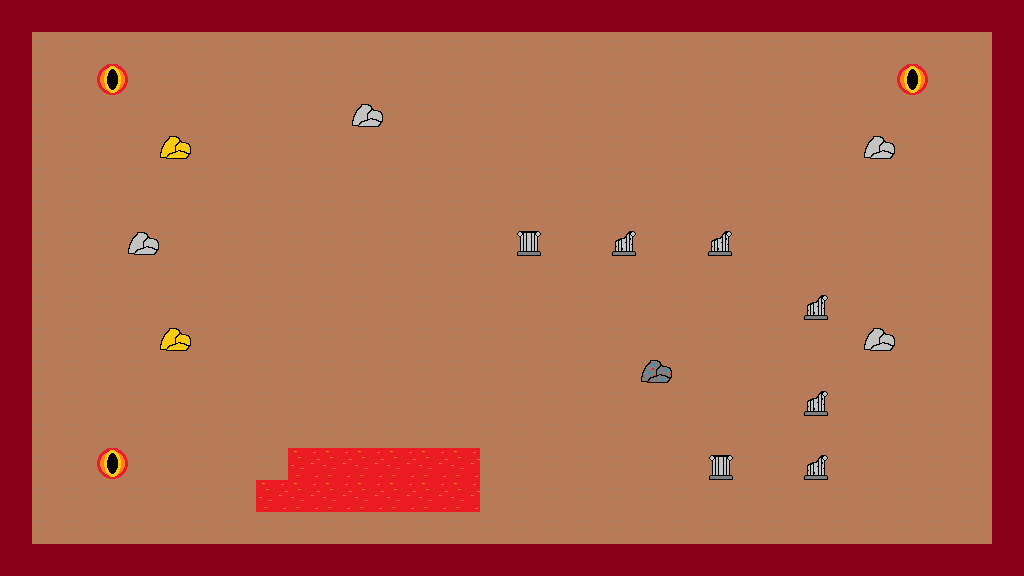
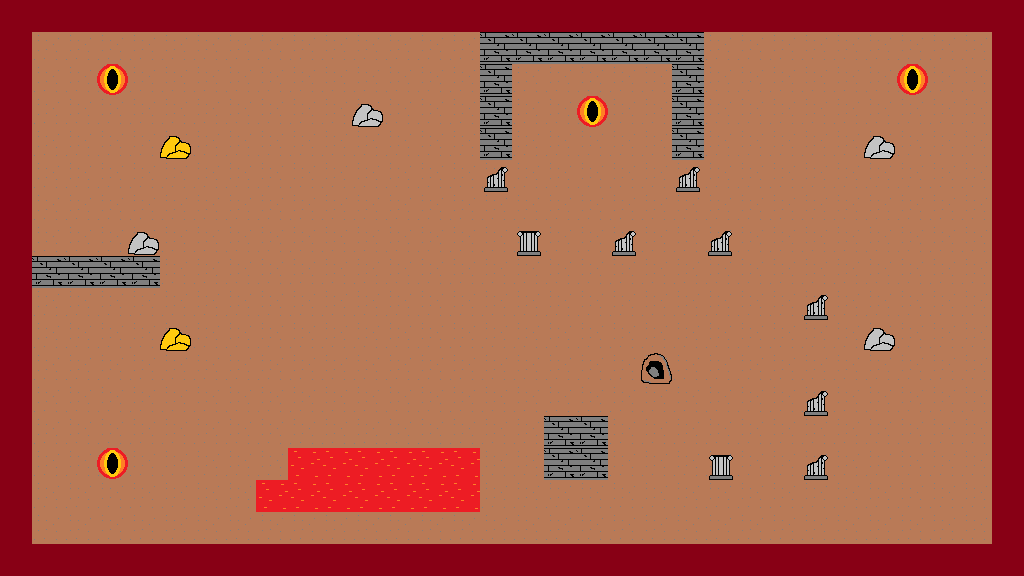
no message

diff --git a/MinioningClient/Visualization/src/main/java/minioning/visuals/Render.java b/MinioningClient/Visualization/src/main/java/minioning/visuals/Render.java
@@ -49,7 +49,7 @@ public class Render {
     private Texture backgroundTexture_2;
     private Texture backgroundTexture_3;
     private Texture backgroundTexture_4;
-  private Texture backgroundTexture_5;
+    private Texture backgroundTexture_5;
     // Entities
     private Texture playerTexture;
     private Texture enemyTexture;
@@ -84,11 +84,10 @@ public class Render {
     private ImageButton button;
 
     // Menu Sprites
-    Sprite player;
-    Sprite enemy;
-    Sprite otherP;
-
-
+    private Sprite player;
+    private Sprite enemy;
+    private Sprite otherP;
+    private Sprite minion;
 
     // Time values
     private float elapsed = 0;
@@ -203,7 +202,7 @@ public class Render {
             otherPlayerTexture = new Texture(Gdx.files.local(RESOURCE_ROOT + "graphics/" + "green.png"));
             minionTexture = new Texture(Gdx.files.local(RESOURCE_ROOT + "graphics/" + "minion.png"));
             errorTexture = new Texture(Gdx.files.local(RESOURCE_ROOT + "graphics/" + "error.png"));
-            
+
             try {
                 buttonTexture = new Texture(Gdx.files.local(RESOURCE_ROOT + "graphics/" + "button1.png"));
 
@@ -242,6 +241,7 @@ public class Render {
             setMenuIcon(batch, 125, 400, player, "PLAYER: ");
             setMenuIcon(batch, 125, 350, enemy, "ENEMY: ");
             setMenuIcon(batch, 125, 300, otherP, "ALLIES: ");
+            setMenuIcon(batch, 125, 250, minion, "MINION: ");
 
 //            ss = setMenuIcon(batch, 50, 200, player, RESOURCE_ROOT);
 //
@@ -264,7 +264,7 @@ public class Render {
         this.player = new Sprite(playerTexture, 0, 0, sizeL, sizeL);
         this.enemy = new Sprite(enemyTexture, 0, 0, sizeL, sizeL);
         this.otherP = new Sprite(otherPlayerTexture, 0, 0, sizeL, sizeL);
-
+this.minion = new Sprite(minionTexture, 0, 0, sizeS, sizeS);
     }
 
     private void setMenuIcon(SpriteBatch batch, int x, int y, Sprite sprite, String text) {
@@ -280,7 +280,6 @@ public class Render {
 
         sprite.draw(batch);
 
-        // Dispose of objects
     }
 
     private Sprite setSprite(Entity entity) {
@@ -297,8 +296,8 @@ public class Render {
             sprite = new Sprite(missile1Texture, 0, 0, sizeS, sizeS);
         } else if (entity.getType() == PLAYER && entity.getID() != LocalData.getClientID()) {
             sprite = new Sprite(otherPlayerTexture, 0, 0, sizeL, sizeL);
-            } else if (entity.getType() == MINION && entity.getID() != LocalData.getClientID()) {
-            sprite = new Sprite(otherPlayerTexture, 0, 0, sizeL, sizeL);
+        } else if (entity.getType() == MINION && entity.getID() != LocalData.getClientID()) {
+            sprite = new Sprite(minionTexture, 0, 0, sizeS, sizeS);
         } else {
             sprite = new Sprite(errorTexture, 0, 0, sizeL, sizeL);
         }
@@ -314,7 +313,7 @@ public class Render {
      */
     // Draws sprites
     private void drawSprites(ConcurrentHashMap<UUID, Entity> world) {
-        System.out.println(world.size());
+//        System.out.println(world.size());
         SpriteBatch batch = new SpriteBatch();
         batch.begin();
 
@@ -333,7 +332,7 @@ public class Render {
                         backgroundSprite = new Sprite(backgroundTexture_3);
                     } else if (bgString.contentEquals("wilderness_west")) {
                         backgroundSprite = new Sprite(backgroundTexture_4);
-                           } else if (bgString.contentEquals("cave")) {
+                    } else if (bgString.contentEquals("cave")) {
                         backgroundSprite = new Sprite(backgroundTexture_5);
                     } else {
                         backgroundSprite = new Sprite(errorBG);

diff --git a/MinioningClient/Visualization/src/main/java/minioning/visuals/VisualProcess.java b/MinioningClient/Visualization/src/main/java/minioning/visuals/VisualProcess.java
@@ -44,7 +44,7 @@ public class VisualProcess implements IProcessingService, ApplicationListener {
 
     @Override
     public void create() {
-        Gdx.graphics.setTitle("The Minioning");
+        Gdx.graphics.setTitle("The Minioning - " + LocalData.getUser()+" playing");
 
         render = new Render();
         state = INGAME;
@@ -99,7 +99,7 @@ public class VisualProcess implements IProcessingService, ApplicationListener {
             if (!qPressed) {
 
                 getOutputList().put(Events.SKILLQ, mouseClick(Events.SKILLQ));
-                System.out.println("Q is pressed");
+//                System.out.println("Q is pressed");
                 qPressed = true;
             }
         } else {
@@ -108,12 +108,12 @@ public class VisualProcess implements IProcessingService, ApplicationListener {
         }
         if (Gdx.input.isKeyPressed(Input.Keys.W)) {
             getOutputList().put(Events.SKILLW, "");
-            System.out.println("W is pressed");
+//            System.out.println("W is pressed");
         }
         if (Gdx.input.isKeyPressed(Input.Keys.E)) {
             if (!ePressed) {
                 getOutputList().put(Events.SKILLE, "");
-                System.out.println("E is pressed");
+//                System.out.println("E is pressed");
                 ePressed = true;
             }
 
